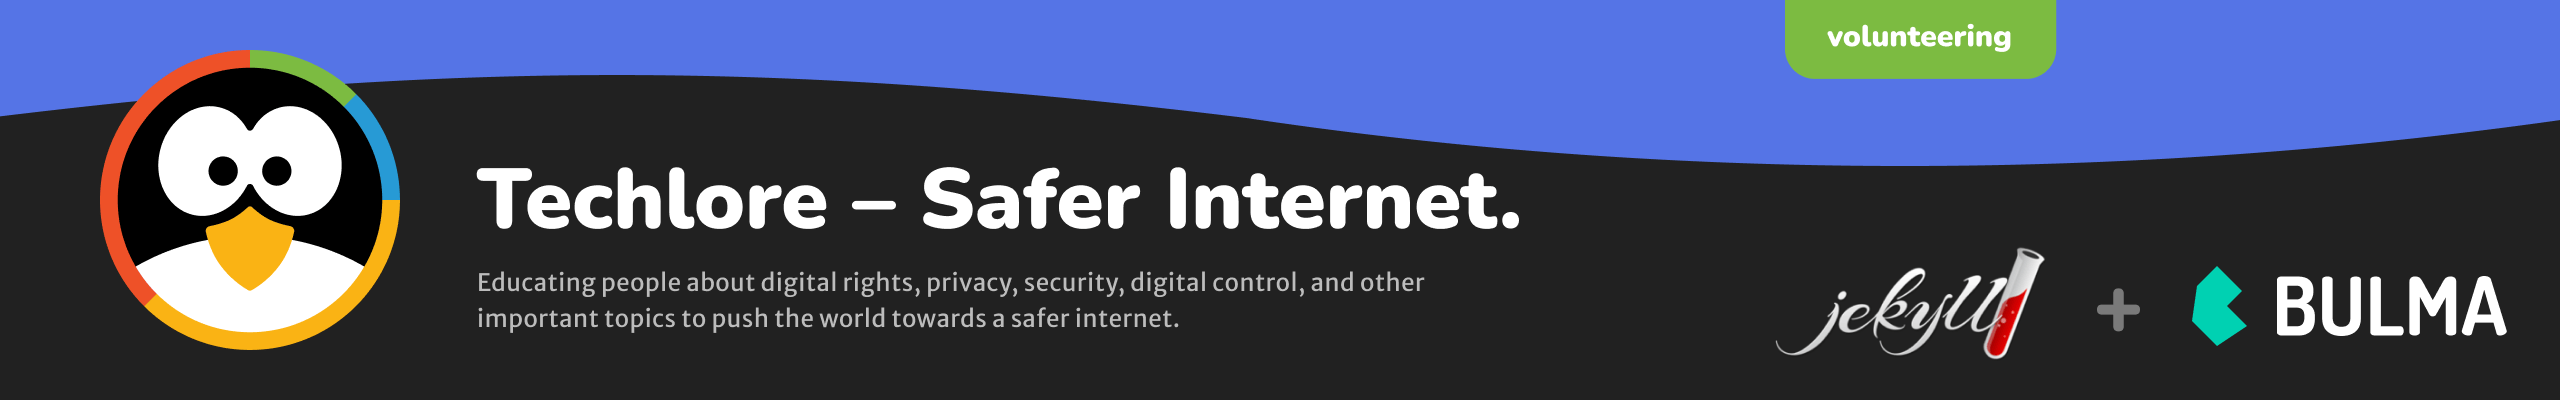
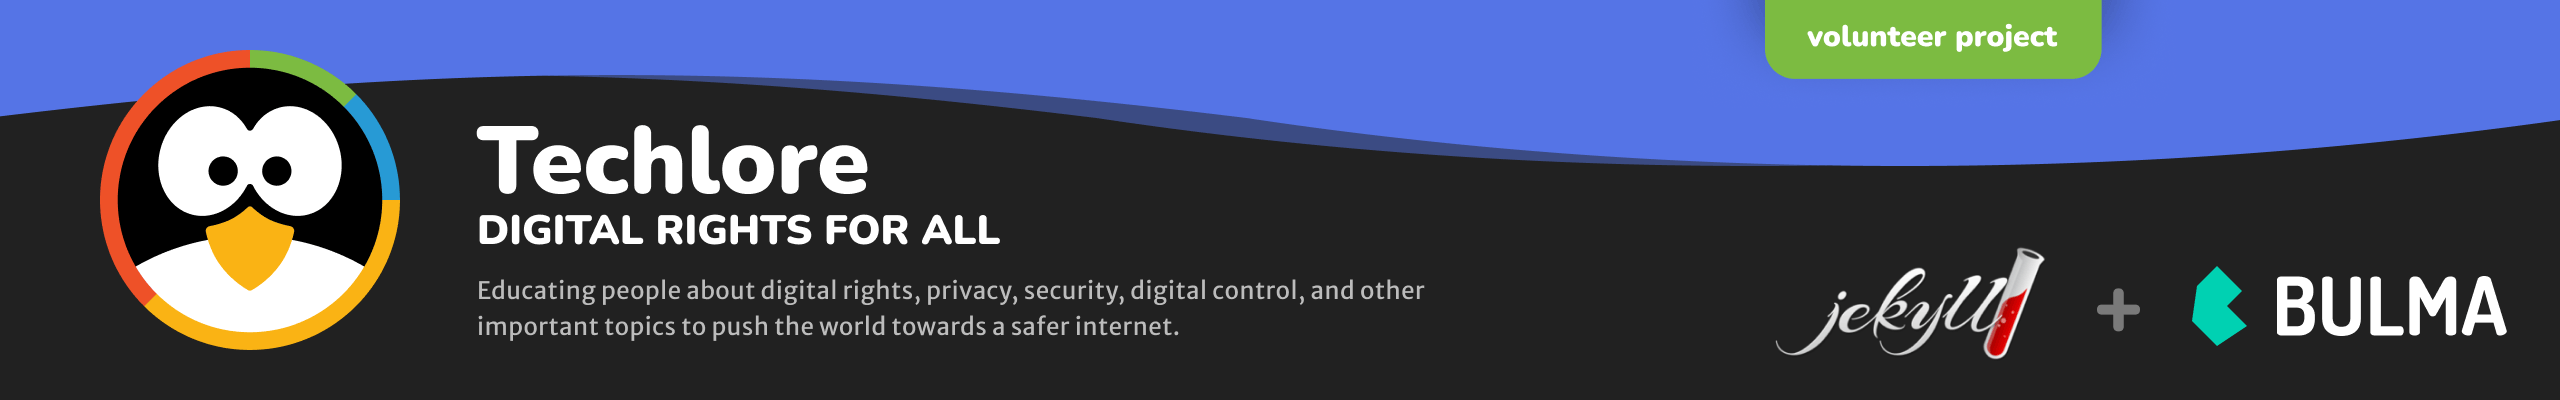
Readme update - Techlore, Bulma, info

diff --git a/README.md b/README.md
@@ -12,6 +12,7 @@ minimalist.
 - 📍 Based in Ontario, **Canada** 🇨🇦
 - 🔭 **Looking for a meaningful job that solves actual problem for people**
 - ❤🔥 I love CSS, frontend web development, tweaking, refactoring and design and art in general
+- ⚙ **I thrive on making things work better and more efficiently**
 - ✉ Feel free to contact me on my [website](https://svatos.dev). Alternatively [Behance](https://www.behance.net/michalsvatos) or [LinkedIn](https://www.linkedin.com/in/michalsvatos/)
 - 🌐 no social networks, sorry 🤷
 - <img src="./images/ico-torontojs.png" width="16" height="16" align="center"> <a href="https://torontojs.com/">TorontoJS</a> contributor
@@ -19,15 +20,15 @@ minimalist.
 
 ### Some languages and tools I use
 
-![css](https://img.shields.io/static/v1?logo=css3&label=&message=CSS&color=272727&logoColor=1572B6&style=for-the-badge) ![less](https://img.shields.io/static/v1?logo=less&label=&message=LESS&color=272727&logoColor=1D365D&style=for-the-badge) ![scss](https://img.shields.io/static/v1?logo=sass&label=&message=SCSS&color=272727&logoColor=CC6699&style=for-the-badge) ![html](https://img.shields.io/static/v1?logo=html5&label=&message=HTML&color=272727&logoColor=E34F26&style=for-the-badge) ![figma](https://img.shields.io/static/v1?logo=figma&label=&message=Figma&color=272727&logoColor=F24E1E&style=for-the-badge) ![adobe](https://img.shields.io/static/v1?logo=adobe&label=&message=Adobe&color=272727&logoColor=FF0000&style=for-the-badge) ![affinity](https://img.shields.io/static/v1?logo=affinity&label=&message=Affinity&color=272727&logoColor=1B72BE&style=for-the-badge) ![git](https://img.shields.io/static/v1?logo=git&label=&message=Git&color=272727&logoColor=F05032&style=for-the-badge) ![github](https://img.shields.io/static/v1?logo=github&label=&message=Github&color=272727&logoColor=fff&style=for-the-badge) ![bitbucket](https://img.shields.io/static/v1?logo=bitbucket&label=&message=Bitbucket&color=272727&logoColor=0052CC&style=for-the-badge) ![jira](https://img.shields.io/static/v1?logo=jira&label=&message=Jira&color=272727&logoColor=0052CC&style=for-the-badge) ![javascript](https://img.shields.io/static/v1?logo=javascript&label=&message=JavaScript&color=272727&logoColor=F7DF1E&style=for-the-badge) ![phpstorm](https://img.shields.io/static/v1?logo=phpstorm&label=&message=PHPStorm&color=272727&logoColor=b345f1&style=for-the-badge) ![vscodium](https://img.shields.io/static/v1?logo=vscodium&label=&message=VSCodium&color=272727&logoColor=2F80ED&style=for-the-badge) ![wordpress](https://img.shields.io/static/v1?logo=wordpress&label=&message=Wordpress&color=272727&logoColor=21759B&style=for-the-badge) ![twig](https://img.shields.io/static/v1?logo=symfony&label=&message=Twig&color=272727&logoColor=bacf2a&style=for-the-badge) ![jekyll](https://img.shields.io/static/v1?logo=jekyll&label=&message=Jekyll&color=272727&logoColor=ffffff&style=for-the-badge) ![liquid](https://img.shields.io/static/v1?logo=shopify&label=&message=Liquid&color=272727&logoColor=7AB55C&style=for-the-badge) ![gulp](https://img.shields.io/static/v1?logo=gulp&label=&message=Gulp&color=272727&logoColor=CF4647&style=for-the-badge) ![vitejs](https://img.shields.io/static/v1?logo=vite&label=&message=Vite&color=272727&logoColor=646CFF&style=for-the-badge) ![react](https://img.shields.io/static/v1?logo=react&label=&message=React&color=272727&logoColor=61DAFB&style=for-the-badge) ![php](https://img.shields.io/static/v1?logo=php&label=&message=PHP&color=272727&logoColor=777BB4&style=for-the-badge) ![prettier](https://img.shields.io/static/v1?logo=prettier&label=&message=Prettier&color=272727&logoColor=F7B93E&style=for-the-badge) ![markdown](https://img.shields.io/static/v1?logo=markdown&label=&message=Markdown&color=272727&logoColor=ffffff&style=for-the-badge) ![brave](https://img.shields.io/static/v1?logo=brave&label=&message=Brave+Browser&color=272727&logoColor=FB542B&style=for-the-badge)  ![terminal](https://img.shields.io/static/v1?logo=gnometerminal&label=&message=Terminal&color=272727&logoColor=ffffff&style=for-the-badge) ![mac](https://img.shields.io/static/v1?logo=apple&label=&message=Mac&color=272727&logoColor=ffffff&style=for-the-badge) ![slack](https://img.shields.io/static/v1?logo=slack&label=&message=Slack&color=272727&logoColor=ffffff&style=for-the-badge)
+![css](https://img.shields.io/static/v1?logo=css3&label=&message=CSS&color=272727&logoColor=1572B6&style=for-the-badge) ![less](https://img.shields.io/static/v1?logo=less&label=&message=LESS&color=272727&logoColor=1D365D&style=for-the-badge) ![scss](https://img.shields.io/static/v1?logo=sass&label=&message=SCSS&color=272727&logoColor=CC6699&style=for-the-badge) ![html](https://img.shields.io/static/v1?logo=html5&label=&message=HTML&color=272727&logoColor=E34F26&style=for-the-badge) ![figma](https://img.shields.io/static/v1?logo=figma&label=&message=Figma&color=272727&logoColor=F24E1E&style=for-the-badge) ![adobe](https://img.shields.io/static/v1?logo=adobe&label=&message=Adobe&color=272727&logoColor=FF0000&style=for-the-badge) ![affinity](https://img.shields.io/static/v1?logo=affinity&label=&message=Affinity&color=272727&logoColor=1B72BE&style=for-the-badge) ![git](https://img.shields.io/static/v1?logo=git&label=&message=Git&color=272727&logoColor=F05032&style=for-the-badge) ![github](https://img.shields.io/static/v1?logo=github&label=&message=Github&color=272727&logoColor=fff&style=for-the-badge) ![bitbucket](https://img.shields.io/static/v1?logo=bitbucket&label=&message=Bitbucket&color=272727&logoColor=0052CC&style=for-the-badge) ![jira](https://img.shields.io/static/v1?logo=jira&label=&message=Jira&color=272727&logoColor=0052CC&style=for-the-badge) ![javascript](https://img.shields.io/static/v1?logo=javascript&label=&message=JavaScript&color=272727&logoColor=F7DF1E&style=for-the-badge) ![phpstorm](https://img.shields.io/static/v1?logo=phpstorm&label=&message=PHPStorm&color=272727&logoColor=b345f1&style=for-the-badge) ![vscodium](https://img.shields.io/static/v1?logo=vscodium&label=&message=VSCodium&color=272727&logoColor=2F80ED&style=for-the-badge) ![wordpress](https://img.shields.io/static/v1?logo=wordpress&label=&message=Wordpress&color=272727&logoColor=21759B&style=for-the-badge) ![twig](https://img.shields.io/static/v1?logo=symfony&label=&message=Twig&color=272727&logoColor=bacf2a&style=for-the-badge) ![jekyll](https://img.shields.io/static/v1?logo=jekyll&label=&message=Jekyll&color=272727&logoColor=ffffff&style=for-the-badge) ![liquid](https://img.shields.io/static/v1?logo=shopify&label=&message=Liquid&color=272727&logoColor=7AB55C&style=for-the-badge) ![bulma](https://img.shields.io/static/v1?logo=bulma&label=&message=Bulma&color=272727&logoColor=00D1b2&style=for-the-badge) ![gulp](https://img.shields.io/static/v1?logo=gulp&label=&message=Gulp&color=272727&logoColor=CF4647&style=for-the-badge) ![vitejs](https://img.shields.io/static/v1?logo=vite&label=&message=Vite&color=272727&logoColor=646CFF&style=for-the-badge) ![react](https://img.shields.io/static/v1?logo=react&label=&message=React&color=272727&logoColor=61DAFB&style=for-the-badge) ![php](https://img.shields.io/static/v1?logo=php&label=&message=PHP&color=272727&logoColor=777BB4&style=for-the-badge) ![prettier](https://img.shields.io/static/v1?logo=prettier&label=&message=Prettier&color=272727&logoColor=F7B93E&style=for-the-badge) ![markdown](https://img.shields.io/static/v1?logo=markdown&label=&message=Markdown&color=272727&logoColor=ffffff&style=for-the-badge) ![brave](https://img.shields.io/static/v1?logo=brave&label=&message=Brave+Browser&color=272727&logoColor=FB542B&style=for-the-badge)  ![terminal](https://img.shields.io/static/v1?logo=gnometerminal&label=&message=Terminal&color=272727&logoColor=ffffff&style=for-the-badge) ![mac](https://img.shields.io/static/v1?logo=apple&label=&message=Mac&color=272727&logoColor=ffffff&style=for-the-badge) ![slack](https://img.shields.io/static/v1?logo=slack&label=&message=Slack&color=272727&logoColor=ffffff&style=for-the-badge)
 
 ## Projects
 
 #### Currently working on
 
-| [![Techlore](https://github.com/MichalSvatos/MichalSvatos/raw/main/images/preview-techlore.png)](https://github.com/MichalSvatos/techlore/) |
-|---------------------------------------------------------------------------------------------------------------------------------------------|
-| [Techlore](https://techlore.tech) website 2.0. New website written from scratch with the help of Jekyll and Bulma framework.                |
+| [![Techlore](https://github.com/MichalSvatos/MichalSvatos/raw/main/images/preview-techlore.png)](https://github.com/MichalSvatos/techlore/)                                   |
+|-------------------------------------------------------------------------------------------------------------------------------------------------------------------------------|
+| Complete website overhaul for [Techlore](https://techlore.tech) based on Jekyll and Bulma framework. Source code on Techlore's [Github](https://github.com/techlore/website). |
 
 | [![Pi-hole Star Trek Picard LCARS Theme](https://github.com/MichalSvatos/pi-hole-star-trek-picard/raw/main/previews/pi-hole-star-trek-picard-lcars.png)](https://github.com/MichalSvatos/pi-hole-star-trek-picard/) |
 |---------------------------------------------------------------------------------------------------------------------------------------------------------------------------------------------------------------------|
